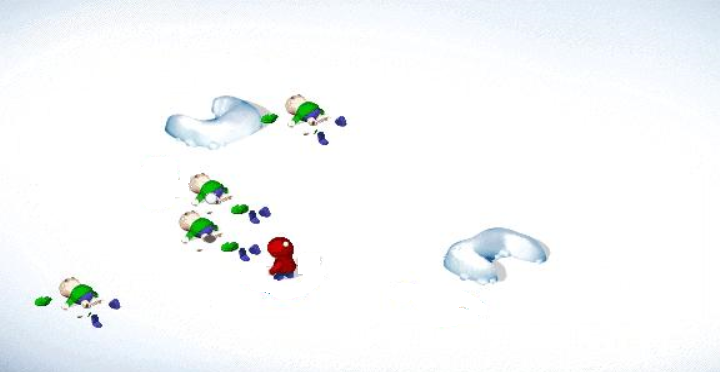
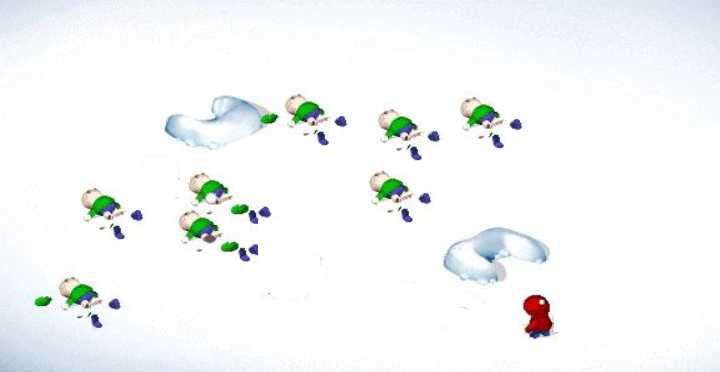
끝

diff --git a/main.py b/main.py
@@ -16,6 +16,7 @@ def restart():
 def main():
     count = 0
     fnt = ImageFont.truetype("/home/jeon7263/game/game/res/hi.ttf", 15)
+    fnt1 = ImageFont.truetype("/home/jeon7263/game/game/res/hi.ttf", 25)
     enemy_path = '/home/jeon7263/game/game/res/gstand.png'
     enemyslow_path = '/home/jeon7263/game/game/res/ghit.png'
     enemydie_path = '/home/jeon7263/game/game/res/gdead.png'
@@ -35,7 +36,7 @@ def main():
     start = Image.open("/home/jeon7263/game/game/res/start.jpeg").resize((240, 240))
     backgroundImage = Image.open(background_path).resize((240, 240))
     startdraw = ImageDraw.Draw(start)
-    startdraw.text((25,90),'Press A button to start!',(0,0,0), font = fnt)
+    startdraw.text((30,105),'Press A button to start!',(0,0,0), font = fnt)
     playerImage = Image.open(player_path).resize((20,20))
     playerslowImage = Image.open(playerslow_path).resize((20,20))
     playerdeadImage = Image.open(playerdead_path).resize((20,20))
@@ -45,23 +46,44 @@ def main():
     enemydieImage = Image.open(enemydie_path).resize((20,20))
     snowImage = Image.open(snow_path).resize((10,10))
 
-    player = Character(joystick.width, joystick.height)
-    enemy1 = Enemy((20,40))
-    enemy2 = Enemy((90,40))
-    enemy3 = Enemy((150,40))
-    enemy4 = Enemy((210,40))
+    stage = 1
+    enemy_counts = {1: 4, 2: 6, 3: 8}
 
-    enemys_list = [enemy1, enemy2, enemy3, enemy4]
+    def create_enemies(stage):
+        enemies = []
+        for i in range(enemy_counts[stage]):
+            random_x = random.randint(20, 220)
+            random_y = random.randint(20, 100)
+            enemies.append(Enemy((random_x, random_y)))
+        return enemies
+
+    enemys_list = create_enemies(stage)
+
+    player = Character(joystick.width, joystick.height)
     character_list = [player]
     bullets = []
     snows = []
     pressed = False
     joystick.disp.image(start)
 
+    def stage_clear(stage):
+        stage_clear = Image.open(background_path).resize((240,240)).convert("RGB")
+        stage_cleardraw = ImageDraw.Draw(stage_clear)
+        stage_cleardraw.text((75,110),f'Stage {stage} Clear!',(0,0,0), font = fnt)
+        joystick.disp.image(stage_clear)
+        time.sleep(3)
+
+    def stage_start(stage):
+        stage_start = Image.open(background_path).resize((240,240)).convert("RGB")
+        stage_startdraw = ImageDraw.Draw(stage_start)
+        stage_startdraw.text((75,110),f'Stage {stage} Start!',(0,0,0), font = fnt)
+        joystick.disp.image(stage_start)
+        time.sleep(3)
+
     def Win():
         ending = Image.open(win_path).resize((240, 240))
         endingdraw = ImageDraw.Draw(ending)
-        endingdraw.text((90,110),'YOU WIN!',(0,0,0), font = fnt)
+        endingdraw.text((70,105),'YOU WIN!',(0,0,0), font = fnt1)
         joystick.disp.image(ending)
         time.sleep(3)
         restart()
@@ -69,7 +91,7 @@ def main():
     def Lose():
         ending = Image.open(lose_path).resize((240,240)).convert("RGB")
         endingdraw = ImageDraw.Draw(ending)
-        endingdraw.text((75,110),'YOU LOSE!',(0,0,0), font = fnt)
+        endingdraw.text((70,105),'YOU LOSE!',(0,0,0), font = fnt1)
         joystick.disp.image(ending)
         time.sleep(3)
         restart()
@@ -105,7 +127,8 @@ def main():
         if not joystick.button_A.value:
             count = count + 1
         
-        if not joystick.button_B.value and count > 0 and (not joystick.button_R.value or not joystick.button_L.value or not joystick.button_U.value or not joystick.button_D.value):
+        if not joystick.button_B.value and count > 0 and (not joystick.button_U.value):
+            command = {'move': True, 'up_pressed': True , 'down_pressed': False, 'left_pressed': False, 'right_pressed': False}
             bullet = Bullet(player.center, command)
             bullets.append(bullet)
             count = 0
@@ -131,7 +154,7 @@ def main():
 
             if enemy.hp == 1:
                 image.paste(enemy.drawslow,(enemy.position[0], enemy.position[1]))
-                enemy.speed  = 4
+                enemy.speed  = 3
                 enemy.move()
                 snow = enemy.throw_snow()
                 if snow:
@@ -149,16 +172,28 @@ def main():
                 image.paste(player.drawplayersnow, (player.position[0], player.position[1]))
                 player.move(command)
 
-            if player.hp == 1:
+            if player.hp == 1 and count == 0:
                 image.paste(player.drawplayerhit, (player.position[0], player.position[1]))
-                player.speed = 4
+                player.speed = 3
                 player.move(command)
+
+            if player.hp == 1 and count > 0:
+                image.paste(player.drawplayersnow, (player.position[0], player.position[1]))
+                player.speed = 3
+                player.move(command)           
 
             if player.hp == 0:
                 image.paste(player.drawplayerdead, (player.position[0], player.position[1]))
 
+
         if all(enemy.hp == 0 for enemy in enemys_list):
-            Win()
+            stage_clear(stage)
+            stage += 1
+            if stage > 3:
+                Win()
+            else:
+                enemys_list = create_enemies(stage)
+                stage_start(stage)
 
         if all(character.hp == 0 for character in character_list):
             Lose()

diff --git a/Enemy.py b/Enemy.py
@@ -8,7 +8,7 @@ class Enemy:
         self.state = 'alive'
         self.position = np.array([spawn_position[0], spawn_position[1]])
         self.center = self.position + np.array([10, 10])
-        self.speed = 8
+        self.speed = 6
         self.hp = 2
         self.last_snow_time = 0
         self.drawmob = Image.open('/home/jeon7263/game/game/res/gstand.png').resize((20, 20))
@@ -20,21 +20,21 @@ class Enemy:
         self.position[1] += random.randint(-self.speed, self.speed)
         self.position[0] += random.randint(-self.speed, self.speed)
 
-        if self.position[0] <= 5:
-            self.position[0] = 5
-        elif self.position[0] >= 235: 
-            self.position[0] = 235
+        if self.position[0] <= 15:
+            self.position[0] = 15
+        elif self.position[0] >= 225: 
+            self.position[0] = 225
 
-        if self.position[1] <= 5:
-            self.position[1] = 5
-        elif self.position[1] >= 120: 
-            self.position[1] = 120
+        if self.position[1] <= 15:
+            self.position[1] = 15
+        elif self.position[1] >= 115: 
+            self.position[1] = 115
 
         self.center = self.position + np.array([10, 10])
     
     def throw_snow(self):
         current_time = time.time()
-        if current_time - self.last_snow_time >= random.uniform(1,3):
+        if current_time - self.last_snow_time >= random.uniform(2,4):
             self.last_snow_time = current_time
             snow = Snow(self.center, 'down')
             return snow

diff --git a/Snow.py b/Snow.py
@@ -3,7 +3,7 @@ from PIL import ImageDraw, ImageFont, Image
 
 class Snow:
     def __init__(self, position, direction):
-        self.speed = 15
+        self.speed = 10
         self.position = position.copy()
         self.direction = direction
         self.state = None

diff --git a/Character.py b/Character.py
@@ -5,7 +5,7 @@ from PIL import ImageDraw, ImageFont, Image
 class Character:
     def __init__(self, width, height):
         self.state = None
-        self.speed = 8
+        self.speed = 6
         self.hp = 2
         width = 120
         height = 223
